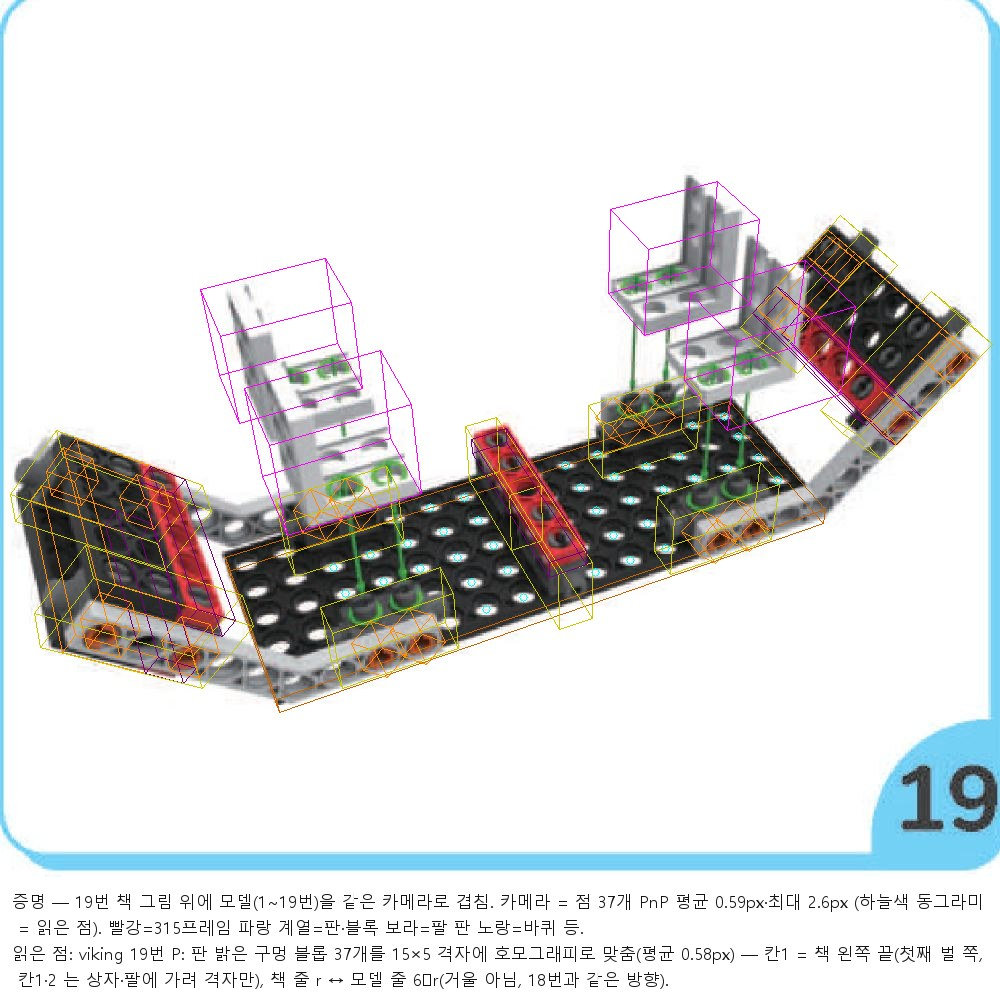
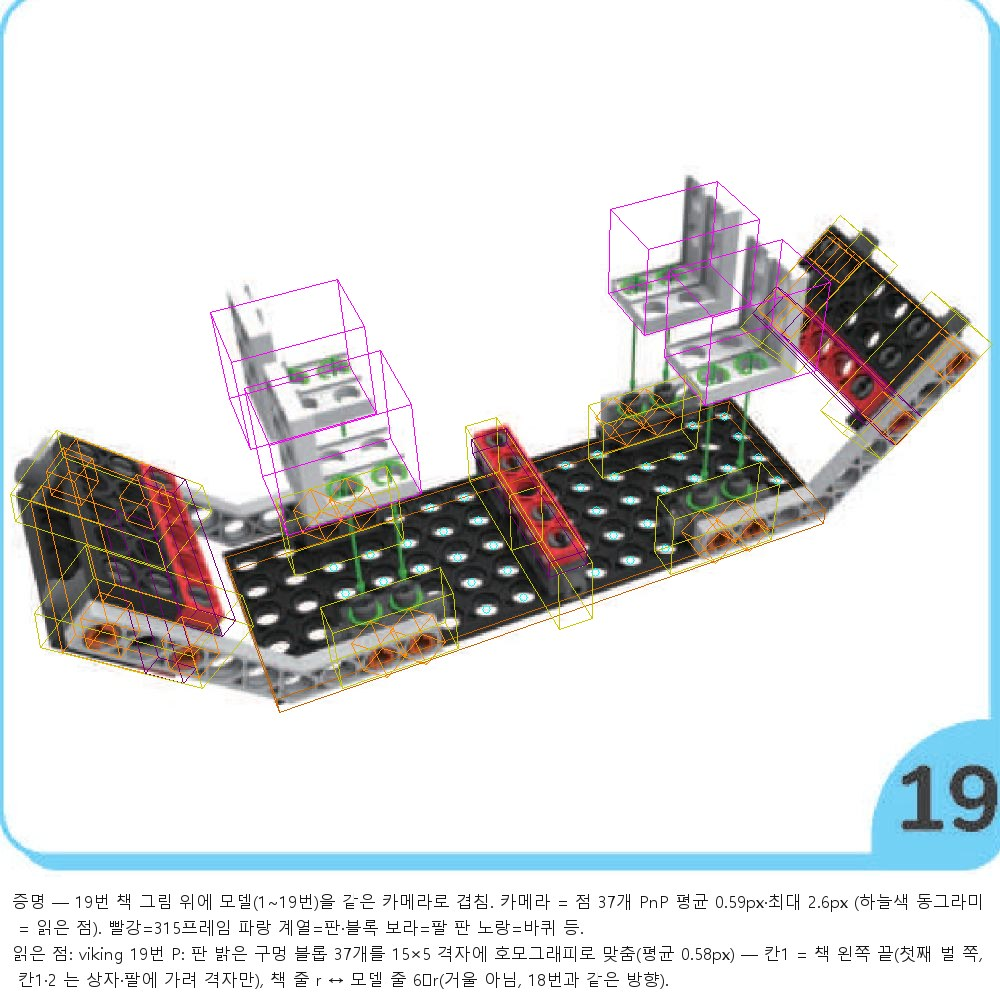
바이킹 19번 브라켓 끼는 구멍 줄 정정(뒤쪽 둘은 h2·h4, 책 거울 배치), 증거·그림 갱신

diff --git a/public/design-warnings.js b/public/design-warnings.js
@@ -1,2 +1,2 @@
 // 자동 생성 — scripts/assembly-tools/insertion_check.js (직접 고치지 않는다)
-window.IVS_ASM_WARNINGS = {"cubo-1-airplane":{"3":[{"key":"3.1|작은기어|315프레임(1.0),90도 프레임(1.3)","part":"작은기어","text":"작은기어(3.1)이(가) 315프레임(1.0), 90도 프레임(1.3) 와 겹쳐 있어요"},{"key":"3.3|부시|315프레임(1.0),90도 프레임(1.3)","part":"부시","text":"부시(3.3)이(가) 315프레임(1.0), 90도 프레임(1.3) 와 겹쳐 있어요"}],"5":[{"key":"5.1|부시|90도 프레임(4.3)","part":"부시","text":"부시(5.1)이(가) 90도 프레임(4.3) 와 겹쳐 있어요"}]},"cubo-1-autogun":{},"cubo-2-autotarget":{"8":[{"key":"8.0|3단블록|작은기어(6.1),부시(6.2)","part":"3단블록","text":"3단블록(8.0)이(가) 작은기어(6.1), 부시(6.2) 와 겹쳐 있어요"},{"key":"8.1|3단블록|작은기어(6.1),부시(6.2)","part":"3단블록","text":"3단블록(8.1)이(가) 작은기어(6.1), 부시(6.2) 와 겹쳐 있어요"},{"key":"8.2|17프레임|작은기어(6.1),부시(6.2)","part":"17프레임","text":"17프레임(8.2)이(가) 작은기어(6.1), 부시(6.2) 와 겹쳐 있어요"}],"52":[{"key":"52.2|37프레임|15프레임(8.3)","part":"37프레임","text":"37프레임(52.2)이(가) 15프레임(8.3) 와 겹쳐 있어요"}]},"cubo-2-avoider":{},"cubo-2-battlerobot":{"30":[{"key":"30.8|515프레임|59프레임(27.2)","part":"515프레임","text":"515프레임(30.8)이(가) 59프레임(27.2) 와 겹쳐 있어요"}],"31":[{"key":"31.6|515프레임|59프레임(27.2)","part":"515프레임","text":"515프레임(31.6)이(가) 59프레임(27.2) 와 겹쳐 있어요"}],"33":[{"key":"33.0|17프레임|59프레임(27.2)","part":"17프레임","text":"17프레임(33.0)이(가) 59프레임(27.2) 와 겹쳐 있어요"},{"key":"33.1|17프레임|59프레임(27.2)","part":"17프레임","text":"17프레임(33.1)이(가) 59프레임(27.2) 와 겹쳐 있어요"},{"key":"33.6|39프레임|59프레임(27.2)","part":"39프레임","text":"39프레임(33.6)이(가) 59프레임(27.2) 와 겹쳐 있어요"}],"34":[{"key":"34.4|713프레임|515프레임(30.8)","part":"713프레임","text":"713프레임(34.4)이(가) 515프레임(30.8) 와 겹쳐 있어요"}]},"cubo-1-battlerobot":{},"cubo-2-catapult":{"2":[{"key":"2.0|713프레임|27프레임(1.0),27프레임(1.1)","part":"713프레임","text":"713프레임(2.0)이(가) 27프레임(1.0), 27프레임(1.1) 와 겹쳐 있어요"}],"4":[{"key":"4.3|부시|27프레임(1.0),3단블록(1.2)","part":"부시","text":"부시(4.3)이(가) 27프레임(1.0), 3단블록(1.2) 와 겹쳐 있어요"},{"key":"4.5|부시|27프레임(1.1),3단블록(1.5)","part":"부시","text":"부시(4.5)이(가) 27프레임(1.1), 3단블록(1.5) 와 겹쳐 있어요"}],"5":[{"key":"5.2|17프레임|3단블록(1.2),3단블록(1.5)","part":"17프레임","text":"17프레임(5.2)이(가) 3단블록(1.2), 3단블록(1.5) 와 겹쳐 있어요"}],"6":[{"key":"6.0|27프레임|부시(4.3)","part":"27프레임","text":"27프레임(6.0)이(가) 부시(4.3) 와 겹쳐 있어요"},{"key":"6.1|27프레임|부시(4.5)","part":"27프레임","text":"27프레임(6.1)이(가) 부시(4.5) 와 겹쳐 있어요"}],"19":[{"key":"19.0|215프레임|37프레임(16.0)","part":"215프레임","text":"215프레임(19.0)이(가) 37프레임(16.0) 와 겹쳐 있어요"},{"key":"19.3|215프레임|59프레임(16.5)","part":"215프레임","text":"215프레임(19.3)이(가) 59프레임(16.5) 와 겹쳐 있어요"}],"28":[{"key":"28.3|큰기어|3단블록(23.0),3단블록(23.1),3단블록(23.2)","part":"큰기어","text":"큰기어(28.3)이(가) 3단블록(23.0), 3단블록(23.1), 3단블록(23.2) 와 겹쳐 있어요"}]},"cubo-1-dog":{"4":[{"key":"4.3|3단블록|부시(3.0)","part":"3단블록","text":"3단블록(4.3)이(가) 부시(3.0) 와 겹쳐 있어요"}],"8":[{"key":"8.3|3단블록|부시(7.0)","part":"3단블록","text":"3단블록(8.3)이(가) 부시(7.0) 와 겹쳐 있어요"}],"31":[{"key":"31.1|3단블록|부시(30.0)","part":"3단블록","text":"3단블록(31.1)이(가) 부시(30.0) 와 겹쳐 있어요"}],"34":[{"key":"34.1|19프레임|19프레임(28.1)","part":"19프레임","text":"19프레임(34.1)이(가) 19프레임(28.1) 와 겹쳐 있어요"}],"37":[{"key":"37.1|3단블록|부시(36.0)","part":"3단블록","text":"3단블록(37.1)이(가) 부시(36.0) 와 겹쳐 있어요"}]},"cubo-2-dropchecker":{"31":[{"key":"31.0|37프레임|713프레임(15.0)","part":"37프레임","text":"37프레임(31.0)이(가) 713프레임(15.0) 와 겹쳐 있어요"}]},"cubo-1-formula1":{"12":[{"key":"12.0|29프레임|부시(9.1),부시(10.1)","part":"29프레임","text":"29프레임(12.0)이(가) 부시(9.1), 부시(10.1) 와 겹쳐 있어요"}]},"cubo-1-kidknight":{"22":[{"key":"22.0|17프레임|부시(21.1)","part":"17프레임","text":"17프레임(22.0)이(가) 부시(21.1) 와 겹쳐 있어요"}],"27":[{"key":"27.0|17프레임|부시(26.1)","part":"17프레임","text":"17프레임(27.0)이(가) 부시(26.1) 와 겹쳐 있어요"}],"30":[{"key":"30.0|115프레임|반원프레임(30.1)","part":"115프레임","text":"115프레임(30.0)이(가) 반원프레임(30.1) 와 겹쳐 있어요"},{"key":"30.1|반원프레임|115프레임(30.0)","part":"반원프레임","text":"반원프레임(30.1)이(가) 115프레임(30.0) 와 겹쳐 있어요"}],"33":[{"key":"33.0|59프레임|15프레임(20.3),115프레임(30.0),반원프레임(30.1)","part":"59프레임","text":"59프레임(33.0)이(가) 15프레임(20.3), 115프레임(30.0), 반원프레임(30.1) 와 겹쳐 있어요"},{"key":"33.3|15프레임|3단블록(30.2)","part":"15프레임","text":"15프레임(33.3)이(가) 3단블록(30.2) 와 겹쳐 있어요"}]},"cubo-2-mantis":{},"cubo-1-rollingbot":{"19":[{"key":"19.2|37프레임|29프레임(14.4)","part":"37프레임","text":"37프레임(19.2)이(가) 29프레임(14.4) 와 겹쳐 있어요"}]},"cubo-1-soccer":{"10":[{"key":"10.0|39프레임|부시(7.0),부시(8.0)","part":"39프레임","text":"39프레임(10.0)이(가) 부시(7.0), 부시(8.0) 와 겹쳐 있어요"}]},"cubo-2-speedbike":{"20":[{"key":"20.0|315프레임|39프레임(17.0)","part":"315프레임","text":"315프레임(20.0)이(가) 39프레임(17.0) 와 겹쳐 있어요"},{"key":"20.1|2단블록|3단블록(17.1)","part":"2단블록","text":"2단블록(20.1)이(가) 3단블록(17.1) 와 겹쳐 있어요"}],"25":[{"key":"25.0|115프레임|39프레임(17.0),3단블록(17.2),315프레임(20.0)","part":"115프레임","text":"115프레임(25.0)이(가) 39프레임(17.0), 3단블록(17.2), 315프레임(20.0) 와 겹쳐 있어요"},{"key":"25.1|115프레임|39프레임(17.0),3단블록(17.1),315프레임(20.0),2단블록(20.1)","part":"115프레임","text":"115프레임(25.1)이(가) 39프레임(17.0), 3단블록(17.1), 315프레임(20.0), 2단블록(20.1) 와 겹쳐 있어요"}],"27":[{"key":"27.0|27프레임|27프레임(14.0)","part":"27프레임","text":"27프레임(27.0)이(가) 27프레임(14.0) 와 겹쳐 있어요"},{"key":"27.3|2열브라켓|2단블록(14.3)","part":"2열브라켓","text":"2열브라켓(27.3)이(가) 2단블록(14.3) 와 겹쳐 있어요"},{"key":"27.6|27프레임|27프레임(14.1)","part":"27프레임","text":"27프레임(27.6)이(가) 27프레임(14.1) 와 겹쳐 있어요"},{"key":"27.9|2열브라켓|2단블록(14.5)","part":"2열브라켓","text":"2열브라켓(27.9)이(가) 2단블록(14.5) 와 겹쳐 있어요"}]},"cubo-1-trike":{"12":[{"key":"12.0|59프레임|37프레임(9.0)","part":"59프레임","text":"59프레임(12.0)이(가) 37프레임(9.0) 와 겹쳐 있어요"}]},"cubo-2-viking":{"19":[{"key":"19.0|2열브라켓|315프레임(7.1)","part":"2열브라켓","text":"2열브라켓(19.0)이(가) 315프레임(7.1) 와 겹쳐 있어요"},{"key":"19.1|2열브라켓|315프레임(9.6),35프레임(9.16)","part":"2열브라켓","text":"2열브라켓(19.1)이(가) 315프레임(9.6), 35프레임(9.16) 와 겹쳐 있어요"},{"key":"19.2|2열브라켓|315프레임(7.1)","part":"2열브라켓","text":"2열브라켓(19.2)이(가) 315프레임(7.1) 와 겹쳐 있어요"}]}};
+window.IVS_ASM_WARNINGS = {"cubo-1-airplane":{"3":[{"key":"3.1|작은기어|315프레임(1.0),90도 프레임(1.3)","part":"작은기어","text":"작은기어(3.1)이(가) 315프레임(1.0), 90도 프레임(1.3) 와 겹쳐 있어요"},{"key":"3.3|부시|315프레임(1.0),90도 프레임(1.3)","part":"부시","text":"부시(3.3)이(가) 315프레임(1.0), 90도 프레임(1.3) 와 겹쳐 있어요"}],"5":[{"key":"5.1|부시|90도 프레임(4.3)","part":"부시","text":"부시(5.1)이(가) 90도 프레임(4.3) 와 겹쳐 있어요"}]},"cubo-1-autogun":{},"cubo-2-autotarget":{"8":[{"key":"8.0|3단블록|작은기어(6.1),부시(6.2)","part":"3단블록","text":"3단블록(8.0)이(가) 작은기어(6.1), 부시(6.2) 와 겹쳐 있어요"},{"key":"8.1|3단블록|작은기어(6.1),부시(6.2)","part":"3단블록","text":"3단블록(8.1)이(가) 작은기어(6.1), 부시(6.2) 와 겹쳐 있어요"},{"key":"8.2|17프레임|작은기어(6.1),부시(6.2)","part":"17프레임","text":"17프레임(8.2)이(가) 작은기어(6.1), 부시(6.2) 와 겹쳐 있어요"}],"52":[{"key":"52.2|37프레임|15프레임(8.3)","part":"37프레임","text":"37프레임(52.2)이(가) 15프레임(8.3) 와 겹쳐 있어요"}]},"cubo-2-avoider":{},"cubo-2-battlerobot":{"30":[{"key":"30.8|515프레임|59프레임(27.2)","part":"515프레임","text":"515프레임(30.8)이(가) 59프레임(27.2) 와 겹쳐 있어요"}],"31":[{"key":"31.6|515프레임|59프레임(27.2)","part":"515프레임","text":"515프레임(31.6)이(가) 59프레임(27.2) 와 겹쳐 있어요"}],"33":[{"key":"33.0|17프레임|59프레임(27.2)","part":"17프레임","text":"17프레임(33.0)이(가) 59프레임(27.2) 와 겹쳐 있어요"},{"key":"33.1|17프레임|59프레임(27.2)","part":"17프레임","text":"17프레임(33.1)이(가) 59프레임(27.2) 와 겹쳐 있어요"},{"key":"33.6|39프레임|59프레임(27.2)","part":"39프레임","text":"39프레임(33.6)이(가) 59프레임(27.2) 와 겹쳐 있어요"}],"34":[{"key":"34.4|713프레임|515프레임(30.8)","part":"713프레임","text":"713프레임(34.4)이(가) 515프레임(30.8) 와 겹쳐 있어요"}]},"cubo-1-battlerobot":{},"cubo-2-catapult":{"2":[{"key":"2.0|713프레임|27프레임(1.0),27프레임(1.1)","part":"713프레임","text":"713프레임(2.0)이(가) 27프레임(1.0), 27프레임(1.1) 와 겹쳐 있어요"}],"4":[{"key":"4.3|부시|27프레임(1.0),3단블록(1.2)","part":"부시","text":"부시(4.3)이(가) 27프레임(1.0), 3단블록(1.2) 와 겹쳐 있어요"},{"key":"4.5|부시|27프레임(1.1),3단블록(1.5)","part":"부시","text":"부시(4.5)이(가) 27프레임(1.1), 3단블록(1.5) 와 겹쳐 있어요"}],"5":[{"key":"5.2|17프레임|3단블록(1.2),3단블록(1.5)","part":"17프레임","text":"17프레임(5.2)이(가) 3단블록(1.2), 3단블록(1.5) 와 겹쳐 있어요"}],"6":[{"key":"6.0|27프레임|부시(4.3)","part":"27프레임","text":"27프레임(6.0)이(가) 부시(4.3) 와 겹쳐 있어요"},{"key":"6.1|27프레임|부시(4.5)","part":"27프레임","text":"27프레임(6.1)이(가) 부시(4.5) 와 겹쳐 있어요"}],"19":[{"key":"19.0|215프레임|37프레임(16.0)","part":"215프레임","text":"215프레임(19.0)이(가) 37프레임(16.0) 와 겹쳐 있어요"},{"key":"19.3|215프레임|59프레임(16.5)","part":"215프레임","text":"215프레임(19.3)이(가) 59프레임(16.5) 와 겹쳐 있어요"}],"28":[{"key":"28.3|큰기어|3단블록(23.0),3단블록(23.1),3단블록(23.2)","part":"큰기어","text":"큰기어(28.3)이(가) 3단블록(23.0), 3단블록(23.1), 3단블록(23.2) 와 겹쳐 있어요"}]},"cubo-1-dog":{"4":[{"key":"4.3|3단블록|부시(3.0)","part":"3단블록","text":"3단블록(4.3)이(가) 부시(3.0) 와 겹쳐 있어요"}],"8":[{"key":"8.3|3단블록|부시(7.0)","part":"3단블록","text":"3단블록(8.3)이(가) 부시(7.0) 와 겹쳐 있어요"}],"31":[{"key":"31.1|3단블록|부시(30.0)","part":"3단블록","text":"3단블록(31.1)이(가) 부시(30.0) 와 겹쳐 있어요"}],"34":[{"key":"34.1|19프레임|19프레임(28.1)","part":"19프레임","text":"19프레임(34.1)이(가) 19프레임(28.1) 와 겹쳐 있어요"}],"37":[{"key":"37.1|3단블록|부시(36.0)","part":"3단블록","text":"3단블록(37.1)이(가) 부시(36.0) 와 겹쳐 있어요"}]},"cubo-2-dropchecker":{"31":[{"key":"31.0|37프레임|713프레임(15.0)","part":"37프레임","text":"37프레임(31.0)이(가) 713프레임(15.0) 와 겹쳐 있어요"}]},"cubo-1-formula1":{"12":[{"key":"12.0|29프레임|부시(9.1),부시(10.1)","part":"29프레임","text":"29프레임(12.0)이(가) 부시(9.1), 부시(10.1) 와 겹쳐 있어요"}]},"cubo-1-kidknight":{"22":[{"key":"22.0|17프레임|부시(21.1)","part":"17프레임","text":"17프레임(22.0)이(가) 부시(21.1) 와 겹쳐 있어요"}],"27":[{"key":"27.0|17프레임|부시(26.1)","part":"17프레임","text":"17프레임(27.0)이(가) 부시(26.1) 와 겹쳐 있어요"}],"30":[{"key":"30.0|115프레임|반원프레임(30.1)","part":"115프레임","text":"115프레임(30.0)이(가) 반원프레임(30.1) 와 겹쳐 있어요"},{"key":"30.1|반원프레임|115프레임(30.0)","part":"반원프레임","text":"반원프레임(30.1)이(가) 115프레임(30.0) 와 겹쳐 있어요"}],"33":[{"key":"33.0|59프레임|15프레임(20.3),115프레임(30.0),반원프레임(30.1)","part":"59프레임","text":"59프레임(33.0)이(가) 15프레임(20.3), 115프레임(30.0), 반원프레임(30.1) 와 겹쳐 있어요"},{"key":"33.3|15프레임|3단블록(30.2)","part":"15프레임","text":"15프레임(33.3)이(가) 3단블록(30.2) 와 겹쳐 있어요"}]},"cubo-2-mantis":{},"cubo-1-rollingbot":{"19":[{"key":"19.2|37프레임|29프레임(14.4)","part":"37프레임","text":"37프레임(19.2)이(가) 29프레임(14.4) 와 겹쳐 있어요"}]},"cubo-1-soccer":{"10":[{"key":"10.0|39프레임|부시(7.0),부시(8.0)","part":"39프레임","text":"39프레임(10.0)이(가) 부시(7.0), 부시(8.0) 와 겹쳐 있어요"}]},"cubo-2-speedbike":{"20":[{"key":"20.0|315프레임|39프레임(17.0)","part":"315프레임","text":"315프레임(20.0)이(가) 39프레임(17.0) 와 겹쳐 있어요"},{"key":"20.1|2단블록|3단블록(17.1)","part":"2단블록","text":"2단블록(20.1)이(가) 3단블록(17.1) 와 겹쳐 있어요"}],"25":[{"key":"25.0|115프레임|39프레임(17.0),3단블록(17.2),315프레임(20.0)","part":"115프레임","text":"115프레임(25.0)이(가) 39프레임(17.0), 3단블록(17.2), 315프레임(20.0) 와 겹쳐 있어요"},{"key":"25.1|115프레임|39프레임(17.0),3단블록(17.1),315프레임(20.0),2단블록(20.1)","part":"115프레임","text":"115프레임(25.1)이(가) 39프레임(17.0), 3단블록(17.1), 315프레임(20.0), 2단블록(20.1) 와 겹쳐 있어요"}],"27":[{"key":"27.0|27프레임|27프레임(14.0)","part":"27프레임","text":"27프레임(27.0)이(가) 27프레임(14.0) 와 겹쳐 있어요"},{"key":"27.3|2열브라켓|2단블록(14.3)","part":"2열브라켓","text":"2열브라켓(27.3)이(가) 2단블록(14.3) 와 겹쳐 있어요"},{"key":"27.6|27프레임|27프레임(14.1)","part":"27프레임","text":"27프레임(27.6)이(가) 27프레임(14.1) 와 겹쳐 있어요"},{"key":"27.9|2열브라켓|2단블록(14.5)","part":"2열브라켓","text":"2열브라켓(27.9)이(가) 2단블록(14.5) 와 겹쳐 있어요"}]},"cubo-1-trike":{"12":[{"key":"12.0|59프레임|37프레임(9.0)","part":"59프레임","text":"59프레임(12.0)이(가) 37프레임(9.0) 와 겹쳐 있어요"}]},"cubo-2-viking":{"19":[{"key":"19.0|2열브라켓|315프레임(7.1)","part":"2열브라켓","text":"2열브라켓(19.0)이(가) 315프레임(7.1) 와 겹쳐 있어요"},{"key":"19.1|2열브라켓|315프레임(9.6),35프레임(9.16)","part":"2열브라켓","text":"2열브라켓(19.1)이(가) 315프레임(9.6), 35프레임(9.16) 와 겹쳐 있어요"},{"key":"19.2|2열브라켓|315프레임(7.1)","part":"2열브라켓","text":"2열브라켓(19.2)이(가) 315프레임(7.1) 와 겹쳐 있어요"},{"key":"19.3|2열브라켓|315프레임(9.6),35프레임(9.16)","part":"2열브라켓","text":"2열브라켓(19.3)이(가) 315프레임(9.6), 35프레임(9.16) 와 겹쳐 있어요"}]}};

diff --git a/public/design-assemblies.js b/public/design-assemblies.js
@@ -3730,8 +3730,8 @@ window.IVS_ASSEMBLIES = [
         { note: "[교재 19] 18번 결과 판 양 끝 팔 끝 2단블록 넷의 위로 선 돌기 두 개에 2열브라켓 넷을 한 개씩 얹어요(브라켓 가로판 구멍 두 개가 블록 돌기 두 개에 끼고 세로 벽은 위·상자 쪽으로 서요).\n━ 작업 점검 ━\n☑ 책 그림 격자(수평선·회전·격자 점) 만듦\n☑ 읽기 표(면·링·부품) 적음\n☑ 읽기 표의 부품 = 모델의 부품 (2열브라켓 4)\n☑ 카메라 방향 파악(가까운 쪽·화면 오른쪽·위가 로봇의 어느 쪽인지 읽기 표 '방향') (눈으로)\n☑ 쓴 부품 합계 ≤ 교재 LIST\n☑ 부품 방향·제자리 판정(읽기 표 '부품방향')\n☑ 앞·뒤 번호 그림·완성 사진(00)과 같이 읽음(읽기 표 '대조')\n☑ 화면 확대 확인 (비교 증거 있음)\n☑ 책 그림과 나란히 비교(칸 수 대조) (비교 증거 있음)\n☑ 카메라 책과 대조 (비교 증거 있음)\n☑ 카메라가 짐작(guess)이 아님 — 책 그림에서 가까운 쪽·오른쪽·위를 읽고 정한 값(camSrc eye) (비교 증거 있음)\n▣ 사용 부품: 2열브라켓 4", cam: {"theta": -0.39, "phi": 0.78}, camSrc: "eye", slot: 2, hideMade: {"1": "1~11번(창고 1·2·3)", "2": "1~11번(창고 1·2·3)", "3": "1~11번(창고 1·2·3)", "4": "1~11번(창고 1·2·3)", "5": "1~11번(창고 1·2·3)", "6": "1~11번(창고 1·2·3)", "7": "1~11번(창고 1·2·3)", "8": "1~11번(창고 1·2·3)", "9": "1~11번(창고 1·2·3)", "10": "1~11번(창고 1·2·3)", "11": "1~11번(창고 1·2·3)"}, parts: [
           { n: "2열브라켓", p: [-47.975, 27.5, 22.0], r: [0.0, 90.0, 0.0], recv: true, dir: [0.0, 1.0, 0.0], marks: [[-47.975, 20.0, 27.0], [-37.975, 20.0, 27.0]], hover: 40 },
           { n: "2열브라켓", p: [51.975, 27.5, -8.0], r: [0.0, -90.0, 0.0], recv: true, dir: [0.0, 1.0, 0.0], marks: [[51.975, 20.0, -13.0], [41.975, 20.0, -13.0]], hover: 40 },
-          { n: "2열브라켓", p: [-48.075, 27.5, -18.0], r: [0.0, 90.0, 0.0], recv: true, dir: [0.0, 1.0, 0.0], marks: [[-48.075, 20.0, -13.0], [-37.975, 20.0, -13.0]], hover: 40 },
-          { n: "2열브라켓", p: [52.075, 27.5, 32.0], r: [0.0, -90.0, 0.0], recv: true, dir: [0.0, 1.0, 0.0], marks: [[52.075, 20.0, 27.0], [41.975, 20.0, 27.0]], hover: 40 },
+          { n: "2열브라켓", p: [-48.075, 27.5, -8.0], r: [0.0, 90.0, 0.0], recv: true, dir: [0.0, 1.0, 0.0], marks: [[-48.075, 20.0, -13.0], [-37.975, 20.0, -13.0]], hover: 40 },
+          { n: "2열브라켓", p: [52.075, 27.5, 22.0], r: [0.0, -90.0, 0.0], recv: true, dir: [0.0, 1.0, 0.0], marks: [[52.075, 20.0, 27.0], [41.975, 20.0, 27.0]], hover: 40 },
         ] },
         { note: "[교재 20] 315프레임 긴 판 앞 줄 칸7·9 에 리벳 둘을 꽂고, 35프레임 작은 판을 가로로 얹어 8볼트와 너트로 조여요(20~23번은 두 벌 만들기).\n━ 작업 점검 ━\n☑ 책 그림 격자(수평선·회전·격자 점) 만듦\n☑ 읽기 표(면·링·부품) 적음\n☑ 읽기 표의 부품 = 모델의 부품 (315프레임 1, 리벳 2, 35프레임 1, 8볼트 1, 너트 1)\n☑ 카메라 방향 파악(가까운 쪽·화면 오른쪽·위가 로봇의 어느 쪽인지 읽기 표 '방향') (눈으로)\n☑ 쓴 부품 합계 ≤ 교재 LIST\n☑ 부품 방향·제자리 판정(읽기 표 '부품방향')\n☑ 앞·뒤 번호 그림·완성 사진(00)과 같이 읽음(읽기 표 '대조')\n☑ 화면 확대 확인 (비교 증거 있음) (눈으로)\n☑ 책 그림과 나란히 비교(칸 수 대조) (비교 증거 있음) (눈으로)\n☑ 카메라 책과 대조 (비교 증거 있음) (눈으로)\n☑ 카메라가 짐작(guess)이 아님 — 책 그림에서 가까운 쪽·오른쪽·위를 읽고 정한 값(camSrc eye) (비교 증거 있음) (눈으로)\n▣ 사용 부품: 315프레임 1, 35프레임 1, 리벳 2, 8볼트 1, 너트 1 (20~23번 2개 만들기)", cam: {"theta": -0.31, "phi": 0.84}, camSrc: "eye", slot: 3, history: "📦 바닥판 몸(12~19번)을 창고 2에 두고, 창고 3에서 옆판(20~23번)을 새로 시작(20~23번은 2개 만들기)", hideMade: {"1": "1~19번(창고 1·2)", "2": "1~19번(창고 1·2)", "3": "1~19번(창고 1·2)", "4": "1~19번(창고 1·2)", "5": "1~19번(창고 1·2)", "6": "1~19번(창고 1·2)", "7": "1~19번(창고 1·2)", "8": "1~19번(창고 1·2)", "9": "1~19번(창고 1·2)", "10": "1~19번(창고 1·2)", "11": "1~19번(창고 1·2)", "12": "1~19번(창고 1·2)", "13": "1~19번(창고 1·2)", "14": "1~19번(창고 1·2)", "15": "1~19번(창고 1·2)", "16": "1~19번(창고 1·2)", "17": "1~19번(창고 1·2)", "18": "1~19번(창고 1·2)", "19": "1~19번(창고 1·2)"}, parts: [
           { n: "315프레임", p: [-3.0, 2.5, 4.5], r: [0.0, 0.0, 0.0] },

diff --git a/scripts/assembly-tools/viking_entry.js b/scripts/assembly-tools/viking_entry.js
@@ -149,8 +149,8 @@
         { note: "[교재 19] 18번 결과 판 양 끝 팔 끝 2단블록 넷의 위로 선 돌기 두 개에 2열브라켓 넷을 한 개씩 얹어요(브라켓 가로판 구멍 두 개가 블록 돌기 두 개에 끼고 세로 벽은 위·상자 쪽으로 서요).\n━ 작업 점검 ━\n☑ 책 그림 격자(수평선·회전·격자 점) 만듦\n☑ 읽기 표(면·링·부품) 적음\n☑ 읽기 표의 부품 = 모델의 부품 (2열브라켓 4)\n☑ 카메라 방향 파악(가까운 쪽·화면 오른쪽·위가 로봇의 어느 쪽인지 읽기 표 '방향') (눈으로)\n☑ 쓴 부품 합계 ≤ 교재 LIST\n☑ 부품 방향·제자리 판정(읽기 표 '부품방향')\n☑ 앞·뒤 번호 그림·완성 사진(00)과 같이 읽음(읽기 표 '대조')\n☑ 화면 확대 확인 (비교 증거 있음)\n☑ 책 그림과 나란히 비교(칸 수 대조) (비교 증거 있음)\n☑ 카메라 책과 대조 (비교 증거 있음)\n☑ 카메라가 짐작(guess)이 아님 — 책 그림에서 가까운 쪽·오른쪽·위를 읽고 정한 값(camSrc eye) (비교 증거 있음)\n▣ 사용 부품: 2열브라켓 4", cam: {"theta": -0.39, "phi": 0.78}, camSrc: "eye", slot: 2, hideMade: {"1": "1~11번(창고 1·2·3)", "2": "1~11번(창고 1·2·3)", "3": "1~11번(창고 1·2·3)", "4": "1~11번(창고 1·2·3)", "5": "1~11번(창고 1·2·3)", "6": "1~11번(창고 1·2·3)", "7": "1~11번(창고 1·2·3)", "8": "1~11번(창고 1·2·3)", "9": "1~11번(창고 1·2·3)", "10": "1~11번(창고 1·2·3)", "11": "1~11번(창고 1·2·3)"}, parts: [
           { n: "2열브라켓", p: [-47.975, 27.5, 22.0], r: [0.0, 90.0, 0.0], recv: true, dir: [0.0, 1.0, 0.0], marks: [[-47.975, 20.0, 27.0], [-37.975, 20.0, 27.0]], hover: 40 },
           { n: "2열브라켓", p: [51.975, 27.5, -8.0], r: [0.0, -90.0, 0.0], recv: true, dir: [0.0, 1.0, 0.0], marks: [[51.975, 20.0, -13.0], [41.975, 20.0, -13.0]], hover: 40 },
-          { n: "2열브라켓", p: [-48.075, 27.5, -18.0], r: [0.0, 90.0, 0.0], recv: true, dir: [0.0, 1.0, 0.0], marks: [[-48.075, 20.0, -13.0], [-37.975, 20.0, -13.0]], hover: 40 },
-          { n: "2열브라켓", p: [52.075, 27.5, 32.0], r: [0.0, -90.0, 0.0], recv: true, dir: [0.0, 1.0, 0.0], marks: [[52.075, 20.0, 27.0], [41.975, 20.0, 27.0]], hover: 40 },
+          { n: "2열브라켓", p: [-48.075, 27.5, -8.0], r: [0.0, 90.0, 0.0], recv: true, dir: [0.0, 1.0, 0.0], marks: [[-48.075, 20.0, -13.0], [-37.975, 20.0, -13.0]], hover: 40 },
+          { n: "2열브라켓", p: [52.075, 27.5, 22.0], r: [0.0, -90.0, 0.0], recv: true, dir: [0.0, 1.0, 0.0], marks: [[52.075, 20.0, 27.0], [41.975, 20.0, 27.0]], hover: 40 },
         ] },
         { note: "[교재 20] 315프레임 긴 판 앞 줄 칸7·9 에 리벳 둘을 꽂고, 35프레임 작은 판을 가로로 얹어 8볼트와 너트로 조여요(20~23번은 두 벌 만들기).\n━ 작업 점검 ━\n☑ 책 그림 격자(수평선·회전·격자 점) 만듦\n☑ 읽기 표(면·링·부품) 적음\n☑ 읽기 표의 부품 = 모델의 부품 (315프레임 1, 리벳 2, 35프레임 1, 8볼트 1, 너트 1)\n☑ 카메라 방향 파악(가까운 쪽·화면 오른쪽·위가 로봇의 어느 쪽인지 읽기 표 '방향') (눈으로)\n☑ 쓴 부품 합계 ≤ 교재 LIST\n☑ 부품 방향·제자리 판정(읽기 표 '부품방향')\n☑ 앞·뒤 번호 그림·완성 사진(00)과 같이 읽음(읽기 표 '대조')\n☑ 화면 확대 확인 (비교 증거 있음) (눈으로)\n☑ 책 그림과 나란히 비교(칸 수 대조) (비교 증거 있음) (눈으로)\n☑ 카메라 책과 대조 (비교 증거 있음) (눈으로)\n☑ 카메라가 짐작(guess)이 아님 — 책 그림에서 가까운 쪽·오른쪽·위를 읽고 정한 값(camSrc eye) (비교 증거 있음) (눈으로)\n▣ 사용 부품: 315프레임 1, 35프레임 1, 리벳 2, 8볼트 1, 너트 1 (20~23번 2개 만들기)", cam: {"theta": -0.31, "phi": 0.84}, camSrc: "eye", slot: 3, history: "📦 바닥판 몸(12~19번)을 창고 2에 두고, 창고 3에서 옆판(20~23번)을 새로 시작(20~23번은 2개 만들기)", hideMade: {"1": "1~19번(창고 1·2)", "2": "1~19번(창고 1·2)", "3": "1~19번(창고 1·2)", "4": "1~19번(창고 1·2)", "5": "1~19번(창고 1·2)", "6": "1~19번(창고 1·2)", "7": "1~19번(창고 1·2)", "8": "1~19번(창고 1·2)", "9": "1~19번(창고 1·2)", "10": "1~19번(창고 1·2)", "11": "1~19번(창고 1·2)", "12": "1~19번(창고 1·2)", "13": "1~19번(창고 1·2)", "14": "1~19번(창고 1·2)", "15": "1~19번(창고 1·2)", "16": "1~19번(창고 1·2)", "17": "1~19번(창고 1·2)", "18": "1~19번(창고 1·2)", "19": "1~19번(창고 1·2)"}, parts: [
           { n: "315프레임", p: [-3.0, 2.5, 4.5], r: [0.0, 0.0, 0.0] },

diff --git a/scripts/assembly-tools/viking.py b/scripts/assembly-tools/viking.py
@@ -311,10 +311,12 @@ for _sg, _nm in ((1, "가까운 팔(+X 끝)"), (-1, "먼 팔(−X 끝)")):
     _lr = []
     for _h in ("h9", "h7"):
         _p = np.array(_f.hole(_h)["pos"], float); _lr.append(s15.place("리벳", _Rr, (_xf + _off[0], _p[1], _p[2])))
-    for _q in _lr: _q.extra["seated"] = True; _q.extra["noGuide"] = True; _q.extra["openEnd"] = True; _q.extra["moveGuide"] = True   # moveGuide: 16번에서 팔이 옮겨 붙을 때 책처럼 리벳 끝→블록 구멍 화살표를 그린다(안 달면 seated 라서 링만 칠하고 화살표 0개 — 2026-10-21 화면에서 확인)
+    for _q in _lr: _q.extra["openEnd"] = True; _q.extra["moveGuide"] = True   # moveGuide: 16번에서 팔이 옮겨 붙을 때 책처럼 리벳 끝→블록 구멍 화살표를 그린다(안 달면 seated 라서 링만 칠하고 화살표 0개 — 2026-10-21 화면에서 확인)
     _sr = []
     for _h in ("h1", "h2"):
         _p = np.array(_f.hole(_h)["pos"], float); _sr.append(s15.place("리벳", _Rr, (_xf + _off[0], _p[1], _p[2])))
+    for _q in _lr + _sr:   # 사용자 지시 2026-10-21: 15번 리벳 4개는 결합 전(분리)으로 상자 쪽에서 24 띄워 화살표 — 책은 꽂힌 모양이지만 지시를 따른다(읽기 표에 적음)
+        _q.extra["hover"] = 24; _q.extra["dir"] = [-1.0 * _sg, 0, 0]; _q.extra["marks"] = [[float(_v) for _v in _q.p]]
     _h1 = np.array(_f.hole("h1")["pos"], float); _h2 = np.array(_f.hole("h2")["pos"], float)
     _xb = (_h2 - _h1) / np.linalg.norm(_h2 - _h1); _yb = np.array([-1.0 * _sg, 0.0, 0.0]); _zb = np.cross(_xb, _yb)
     _Rb = np.array([_xb, _yb, _zb]).T
@@ -403,8 +405,9 @@ BR19 = []
 for _f, _lr, _sr_, _b, _sg in ARMS:
     _cb = _cp18["%d:%d" % (_b.step.index, _b.step.parts.index(_b))]
     _up = ("p5", "p6") if _sg > 0 else ("p4", "p3")   # 위로 선 돌기: (X 작은 쪽, 큰 쪽) — 첫째 벌 기준. 둘째 벌은 180° 라 같은 이름이 (X 큰 쪽, 작은 쪽)
-    BR19.append(s19.recv("2열브라켓", R_BR19A, {"h1": (_b, _up[0]), "h3": (_b, _up[1])}, dir=[0, 1, 0], hover=40))
-    BR19.append(s19.recv("2열브라켓", R_BR19B, {"h1": (_cb, _up[0]), "h3": (_cb, _up[1])}, dir=[0, 1, 0], hover=40))
+    _hh = ("h1", "h3") if _sg > 0 else ("h2", "h4")   # 가로판 두 줄(국소 x ±5) 중 끼는 줄: 책에서 브라켓 둘은 판 가운데 줄(z 7)에 대해 거울 — 빈 구멍 줄이 안쪽(가운데 쪽)이다(2026-10-22 긴 쪽·벽·빈 구멍 줄을 확대해 다시 대조)
+    BR19.append(s19.recv("2열브라켓", R_BR19A, {_hh[0]: (_b, _up[0]), _hh[1]: (_b, _up[1])}, dir=[0, 1, 0], hover=40))
+    BR19.append(s19.recv("2열브라켓", R_BR19B, {_hh[0]: (_cb, _up[0]), _hh[1]: (_cb, _up[1])}, dir=[0, 1, 0], hover=40))
 A.steps[18].cam = (-0.39, 0.78, False, None, None, None); A.steps[18].camSrc = "eye"   # 판 구멍 37점 PnP 0.58px(fov 37)·axes_fit 75점 0.74px(roll −2.2°)
 
 # ── 20 ── 교재 85쪽 20 (읽은 것 2026-10-21 — 창고 3 새 조립(20~23번 2개 만들기): 315프레임 긴 검은 판(15칸×3줄)의 앞 줄 칸7·9 에 리벳 둘을 꽂고, 35프레임 작은 판을 가로로(긴 쪽 5칸이 판 폭 방향, 뒤로 뻗음) 얹어 끝 칸 두 구멍(줄1·줄3)이 리벳 둘에, 가운데 구멍(칸3 줄2)에 8볼트가 긴 판 칸8 뒤 줄 구멍을 지나 아래 너트로 조인다.
